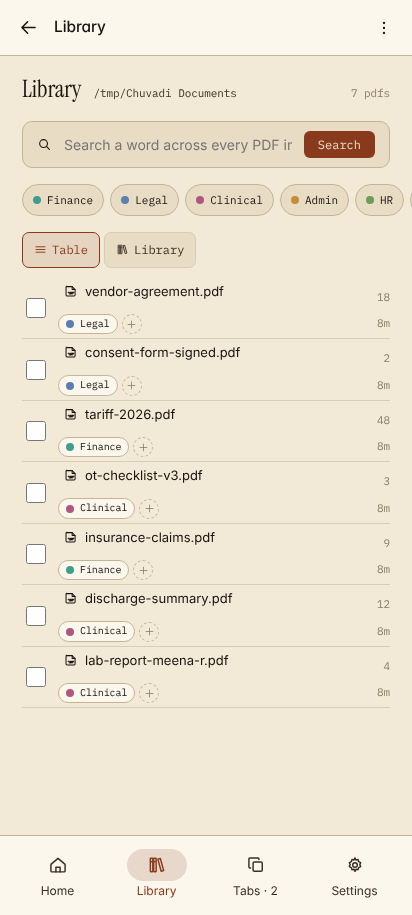
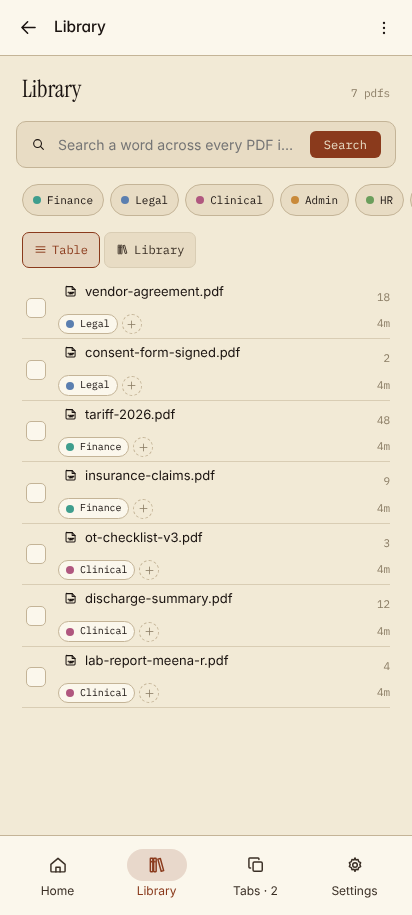
Mobile UI: MU-8 polish on Foundation 615afde (44 px Library targets, paths hidden on touch)
- Library on a phone: the row checkbox is a 44 px theme-drawn box; the + tag, chips, name,
  view toggle and Search get 44 px hit areas without changing their look; the search input
  fills its field.
- Folder paths in the Library header and Home storage map are hidden on phone and tablet.
- Hooks H-5 to H-8 apply to 615afde; 235 tests pass with them; desktop clock-only vs 615afde.

diff --git a/src/ChuvadiReader.Ui/wwwroot/css/mobile.css b/src/ChuvadiReader.Ui/wwwroot/css/mobile.css
@@ -398,6 +398,10 @@ html[data-shell="phone"] .home .r-lock span { display: none; }
 html[data-shell="phone"] .home .side { width: auto; margin-top: 26px; padding: 0; border: none; background: transparent; position: static; }
 html[data-shell="phone"] .home .smap-grid { grid-template-columns: repeat(2, minmax(0, 1fr)); }
 
+/* Folder paths mean nothing without a file manager (the Reader hides "Show in folder" there too). */
+html[data-shell="tablet"] .libp-folder, html[data-shell="phone"] .libp-folder,
+html[data-shell="tablet"] .smap-folder, html[data-shell="phone"] .smap-folder { display: none; }
+
 /* Library: one row of chips that scrolls sideways; Table becomes a two-line list; the Shelf keeps
    its desktop look (each shelf scrolls sideways). Opens with Table (the Default view setting is not
    built yet — Settings shows it as "Coming soon"). */
@@ -410,13 +414,40 @@ html[data-shell="phone"] .librow {
     display: grid; grid-template-columns: 28px minmax(0, 1fr) auto; grid-template-areas: "c n p" "c t u";
     align-items: center; column-gap: 8px; row-gap: 0; padding: 4px 0; min-height: 52px;
 }
-html[data-shell="phone"] .librow > .libcheck { grid-area: c; width: 20px; height: 20px; }
+/* The row's checkbox (bulk select) as a 44 px target: drawn with the theme's tokens, 20 px box inside. */
+html[data-shell="phone"] .librow > .libcheck {
+    grid-area: c; position: relative; flex: none; width: 44px; height: 44px; margin: 0 0 0 -8px;
+    -webkit-appearance: none; appearance: none; background: none; border: none; border-radius: 10px; cursor: pointer;
+}
+html[data-shell="phone"] .librow > .libcheck::before {
+    content: ""; position: absolute; inset: 12px; box-sizing: border-box; border-radius: 5px;
+    border: 1.5px solid var(--chvd-border); background: var(--chvd-surface-hi);
+}
+html[data-shell="phone"] .librow > .libcheck:checked::before { background: var(--chvd-binding); border-color: var(--chvd-binding); }
+html[data-shell="phone"] .librow > .libcheck:checked::after {
+    content: ""; position: absolute; left: 18px; top: 14px; width: 5px; height: 10px;
+    border: solid var(--chvd-on-accent); border-width: 0 2px 2px 0; transform: rotate(45deg);
+}
+html[data-shell="phone"] .librow > .libcheck:focus-visible { outline: 2px solid var(--chvd-binding); outline-offset: -4px; }
 html[data-shell="phone"] .librow > .lib-name { grid-area: n; min-width: 0; min-height: 32px; }
 html[data-shell="phone"] .librow > .lib-tags { grid-area: t; min-width: 0; flex-wrap: nowrap; overflow: hidden; }
 html[data-shell="phone"] .librow > .num:nth-of-type(1) { grid-area: p; }
 html[data-shell="phone"] .librow > .num:nth-of-type(2) { display: none; }
 html[data-shell="phone"] .librow > .num:nth-of-type(3) { grid-area: u; }
 html[data-shell="phone"] .librow .lib-path { display: none; }
+/* Small controls keep their look; an invisible ::after brings each hit area to 44 px. */
+html[data-shell="phone"] .librow .tag-add,
+html[data-shell="phone"] .librow > .lib-name,
+html[data-shell="phone"] .libp-filter .tagchip,
+html[data-shell="phone"] .libp-views .vbtn,
+html[data-shell="phone"] .libp-go { position: relative; }
+html[data-shell="phone"] .librow .tag-add::after { content: ""; position: absolute; inset: -12px; }
+html[data-shell="phone"] .librow > .lib-name::after,
+html[data-shell="phone"] .libp-filter .tagchip::after { content: ""; position: absolute; inset: -6px 0; }
+html[data-shell="phone"] .libp-views .vbtn::after { content: ""; position: absolute; inset: -4px 0; }
+html[data-shell="phone"] .libp-go::after { content: ""; position: absolute; inset: -9px -4px; }
+html[data-shell="phone"] .libp-search { margin: 8px 16px; }
+html[data-shell="phone"] .libp-search input { min-height: 44px; margin: -12px 0; min-width: 0; text-overflow: ellipsis; }
 /* The Shelf keeps its desktop look; each shelf already scrolls sideways. */
 
 /* Settings A: the section list alone; a section opens as its own screen (hook H-6 adds .phone-list

diff --git a/docs/mobile-ui/BUILD-LOG.md b/docs/mobile-ui/BUILD-LOG.md
@@ -215,3 +215,24 @@ Evidence:
   - Now: every check passes on phone portrait and landscape, jitter, and tablet.
 - Lesson: my fling limit was tuned to CDP's instant events. Injected touch on a slow emulator, and a
   slow real finger, need the distance rule too.
+
+### 7 Nov (late): Foundation 615afde merged; MU-8 polish
+- Merged `platform/foundation` 615afde (second and third combined patches: PlatformText wording —
+  "Follow the phone's light / dark setting" now shows —, Licences page, Print packages). Clean merge.
+  All four hooks (H-5 to H-8) still apply.
+- Results: 0 warnings; tests 171 + 33 + 19 + 12 = 235 pass with hooks applied.
+- MU-8 fidelity pass against 4a and the D-45 mocks (CSS only):
+  - The Library row checkbox (20 px) and "+" tag (20 px) were under the 44 px target. The checkbox is
+    now a 44 px theme-drawn box (tap selects; the Press bar appears). The tag "+", category chips,
+    file name, view toggle and Search keep their look, with an invisible `::after` making each hit
+    area 44 px. A script checks every visible control on the Library: none under 44 px.
+  - Folder paths (Library header, Home storage map) are hidden on phone and tablet: no file manager
+    there.
+  - The Library search input fills its 44 px field, with an ellipsis on the long placeholder.
+- Evidence:
+  - Desktop vs 615afde: Home, Library and Read differ only in the clock.
+  - Phone and tablet gestures and checks all pass; 0 console errors on the 5 MU-8 screens.
+- Still open (decisions; OPTIONS.md): Home search placement (Dashboard hook), Settings row summaries
+  (Settings hook), Library Default view (the Reader chat's setting).
+- Android CI is stopped (GitHub billing), so this was tested locally only. The device check of the
+  swipe fix and the over-wide phone element wait for the Android chat's run.

diff --git a/docs/mobile-ui/OPTIONS.md b/docs/mobile-ui/OPTIONS.md
@@ -8,7 +8,7 @@
 | MU-5 pen draws, finger pans | D-42 (a) | **Applied by Foundation** in reader.js (`penSplit`); my CSS half removed (reader.js handles it) |
 | MU-6 Tabs sheet | D-43 (a) | Built; switch / close need H-5 |
 | MU-7 phone landscape | D-44 (b) | Built; the off-document bar is icon-only in landscape too |
-| MU-8 phone Home / Library / Settings | D-45: bar B, Home B, Library both, Settings A | **Built.** Settings A needs H-6. Open points below |
+| MU-8 phone Home / Library / Settings | D-45: bar B, Home B, Library both, Settings A | **Built.** Settings A needs H-6. 7 Nov polish: every Library control ≥ 44 px (checkbox, + tag, chips, name, Search, view toggle), folder paths hidden on phone and tablet, search box fills its field. Open points below |
 | MU-9 Protect FAB | D-46 | Built: Save redacted copy |
 | MU-9 desk counter | D-46 | Bench's (Foundation 63af90f). Mine removed so the two don't fight; please confirm |
 | MU-10 title | D-47 file name | As built |

diff --git a/docs/mobile-ui/FOR-FOUNDATION.md b/docs/mobile-ui/FOR-FOUNDATION.md
@@ -7,7 +7,7 @@ nothing from them is still waiting.
 
 Four new hooks. They are **not** applied on this branch; `tools/mobile-ui/preview.sh` applies
 `proposal/mobile-ui-hooks-3.patch` (all four) in a scratch copy for testing. It applies cleanly to
-63af90f with `git apply`.
+63af90f and to the current tip **615afde** (second and third combined patches) with `git apply`.
 
 | Patch | File | Decision | Lines |
 |---|---|---|---|
